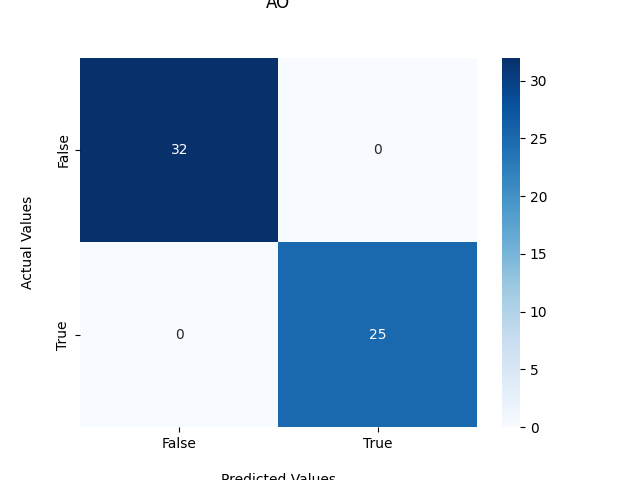
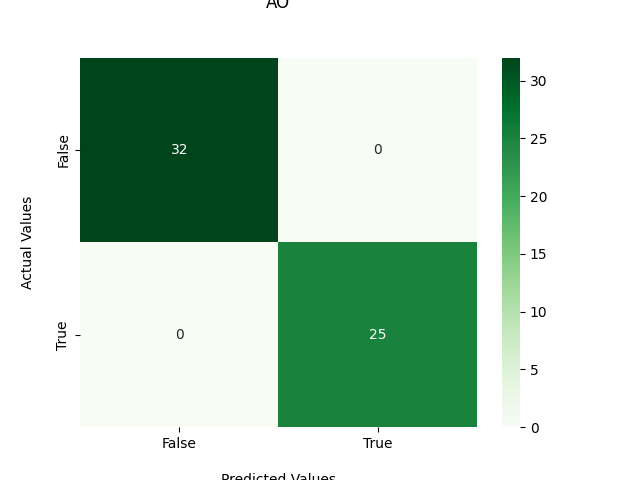
adding latest changes and bug fixes

Changed region(s): [[0.125, 0.0938, 0.75, 0.9062], [0.7812, 0.0938, 0.8125, 0.8125]]

diff --git a/scripts/Lasso-TARA.py b/scripts/Lasso-TARA.py
@@ -8,6 +8,7 @@ from sklearn.model_selection import train_test_split, GridSearchCV
 from sklearn.preprocessing import MinMaxScaler, StandardScaler
 from sklearn.pipeline import Pipeline
 import chardet
+from imblearn.over_sampling import SMOTE
 
 def plot_confusion_matrix(y_pred, y_actual, title, filename):
     plt.gca().set_aspect('equal')
@@ -19,7 +20,7 @@ def plot_confusion_matrix(y_pred, y_actual, title, filename):
 
     #print(cf_matrix)
 
-    ax = sns.heatmap(cf_matrix, annot=True, cmap='Blues')
+    ax = sns.heatmap(cf_matrix, annot=True, cmap='Reds')
 
     ax.set_title(title+'\n\n');
     ax.set_xlabel('\nPredicted Values')
@@ -67,6 +68,8 @@ remove = [col for col in features.columns if features[col].isna().sum() != 0 or 
 features = features.loc[:, ~features.columns.isin(remove)] #remove columns with too many missing values
 #print(features)
 
+sm = SMOTE(k_neighbors=1, random_state=55)
+
 params = {
     'C': [0.1, 1, 10, 100, 1000],
     'gamma': [1, 0.1, 0.01, 0.001, 0.0001],
@@ -81,10 +84,13 @@ clf = GridSearchCV(
     verbose=3
 )
 
-for label in labels.columns:
+labels_list = ['RS','SO','NAT','IO','SP','AO','SAT','MS', 'NP']
+
+for label in labels_list:
 
     print('Scaling data...')
-    X_train, X_test, y_train, y_test = train_test_split(features, labels, test_size=0.3, random_state=5)
+    X_res, y_res = sm.fit_resample(features, labels[label])
+    X_train, X_test, y_train, y_test = train_test_split(X_res, y_res, test_size=0.3, random_state=5)
 
     print('Doing feature selection with Lasso...')
     pipeline = Pipeline([('scaler',StandardScaler()), ('model',Lasso())])
@@ -95,10 +101,11 @@ for label in labels.columns:
     search.fit(X_train, y_train)
     coefficients = search.best_estimator_.named_steps['model'].coef_
     importance = np.abs(coefficients)
-    remove = np.array(features.columns)[importance > 0]
+    remove = np.array(features.columns)[importance == 0] #remove anything not important
 
-    X_train = X_train.loc[:, ~X_train.columns.isin(remove)]
-    X_test = X_test.loc[:, ~X_test.columns.isin(remove)]
+    if len(remove) < len(features.columns): #if everything is not important use the entire dataset
+        X_train = X_train.loc[:, ~X_train.columns.isin(remove)]
+        X_test = X_test.loc[:, ~X_test.columns.isin(remove)]
 
     print('Predicting with SVM...')
 

diff --git a/scripts/plot.py b/scripts/plot.py
@@ -1,0 +1,35 @@
+import matplotlib.pyplot as plt
+import seaborn as sns
+
+
+def plot_confusion_matrix(cf_matrix, title, filename, color):
+    plt.gca().set_aspect('equal')
+    #cf_matrix = metrics.confusion_matrix(y_actual, y_pred)
+    if len(cf_matrix) != 2: #if it predicts perfectly then confusion matrix returns incorrect form
+        val = cf_matrix[0][0]
+        tmp = [val, 0]
+        cf_matrix = np.array([tmp, [0, 0]])
+
+    #print(cf_matrix)
+
+    ax = sns.heatmap(cf_matrix, annot=True, cmap=color)
+
+    ax.set_title(title+'\n\n');
+    ax.set_xlabel('\nPredicted Values')
+    ax.set_ylabel('Actual Values\n');
+
+    ## Ticket labels - List must be in alphabetical order
+    ax.xaxis.set_ticklabels(['False','True'])
+    ax.yaxis.set_ticklabels(['False','True'])
+
+    ## Display the visualization of the Confusion Matrix.
+    plt.tight_layout()
+    plt.savefig(filename)
+    plt.close()
+
+plot_confusion_matrix([[9,1],[10,0]], 'Drought Tolerance', 'images/confusion-matrix/Rhizo/PCA/drought_tolerance_CM.png', 'Greens')
+plot_confusion_matrix([[5,4],[5,5]], 'Drought Tolerance', 'images/confusion-matrix/Rhizo/Lasso/drought_tolerance_CM.png', 'Reds')
+plot_confusion_matrix([[5,4],[3,7]], 'Drought Tolerance', 'images/confusion-matrix/Rhizo/AE/drought_tolerance_CM-AE100.png', 'Blues')
+
+plot_confusion_matrix([[13000,0],[0,3000]], 'cultured', 'images/confusion-matrix/GEM/Lasso/cultured_CM.png', 'Reds')
+plot_confusion_matrix([[13000,0],[3000,0]], 'cultured', 'images/confusion-matrix/GEM/Lasso/cultured_CM-nometa.png', 'Reds')

diff --git a/scripts/Lasso-GEM.py b/scripts/Lasso-GEM.py
@@ -19,7 +19,7 @@ def plot_confusion_matrix(y_pred, y_actual, title, filename):
 
     #print(cf_matrix)
 
-    ax = sns.heatmap(cf_matrix, annot=True, cmap='Blues')
+    ax = sns.heatmap(cf_matrix, annot=True, cmap='Reds')
 
     ax.set_title(title+'\n\n');
     ax.set_xlabel('\nPredicted Values')
@@ -74,7 +74,7 @@ ids = data['genome_id']
 label_strings = data['cultured.status']
 
 print('Splitting data...')
-features = data.loc[:, ~data.columns.isin(['genome_id', 'cultured.status'])] #get rid of labels
+features = data.loc[:, ~data.columns.isin(['genome_id', 'cultured.status', 'culture.level', 'taxonomic.dist', 'domain', 'phylum', 'class', 'order', 'family', 'genus', 'species', 'completeness'])] #get rid of labels
 features = pd.get_dummies(features)
 #print(features)
 
@@ -103,7 +103,7 @@ search = GridSearchCV(pipeline,
 search.fit(X_train, y_train)
 coefficients = search.best_estimator_.named_steps['model'].coef_
 importance = np.abs(coefficients)
-remove = np.array(features.columns)[importance > 0]
+remove = np.array(features.columns)[importance == 0]
 
 X_train = X_train.loc[:, ~X_train.columns.isin(remove)]
 X_test = X_test.loc[:, ~X_test.columns.isin(remove)]
@@ -138,6 +138,6 @@ print("Precision:",metrics.precision_score(y_test, y_pred))
 print("Recall:",metrics.recall_score(y_test, y_pred))
 
 print('Plotting:', label)
-plot_confusion_matrix(y_pred=y_pred, y_actual=y_test, title=label, filename=label+'_CM.png')
+plot_confusion_matrix(y_pred=y_pred, y_actual=y_test, title=label, filename=label+'_CM-nometa.png')
 
 print()

diff --git a/scripts/Lasso-Rhizo.py b/scripts/Lasso-Rhizo.py
@@ -19,7 +19,7 @@ def plot_confusion_matrix(y_pred, y_actual, title, filename):
 
     #print(cf_matrix)
 
-    ax = sns.heatmap(cf_matrix, annot=True, cmap='Blues')
+    ax = sns.heatmap(cf_matrix, annot=True, cmap='Reds')
 
     ax.set_title(title+'\n\n');
     ax.set_xlabel('\nPredicted Values')
@@ -84,10 +84,12 @@ search = GridSearchCV(pipeline,
 search.fit(X_train, y_train)
 coefficients = search.best_estimator_.named_steps['model'].coef_
 importance = np.abs(coefficients)
-remove = np.array(features.columns)[importance > 0]
+#print(list(importance))
+remove = np.array(features.columns)[importance == 0]
 
-X_train = X_train.loc[:, ~X_train.columns.isin(remove)]
-X_test = X_test.loc[:, ~X_test.columns.isin(remove)]
+if len(remove) < len(features.columns): #if everything is not important then no feature selection can occur
+    X_train = X_train.loc[:, ~X_train.columns.isin(remove)]
+    X_test = X_test.loc[:, ~X_test.columns.isin(remove)]
 
 print('Predicting with SVM...')
 

diff --git a/scripts/AE-GEM.py b/scripts/AE-GEM.py
@@ -91,7 +91,7 @@ ids = data['genome_id']
 label_strings = data['cultured.status']
 
 print('Splitting data...')
-features = data.loc[:, ~data.columns.isin(['genome_id', 'cultured.status', 'culture.level', 'taxonomic.dist', 'domain', 'phylum', 'class', 'order', 'family', 'genus', 'species', 'completeness'])] #remove metadata
+features = data.loc[:, ~data.columns.isin(['genome_id', 'cultured.status'])] #remove metadata
 features = pd.get_dummies(features)
 #print(features.columns)
 

diff --git a/scripts/PCA-GEM.py b/scripts/PCA-GEM.py
@@ -17,7 +17,7 @@ def plot_confusion_matrix(y_pred, y_actual, title, filename):
 
     #print(cf_matrix)
 
-    ax = sns.heatmap(cf_matrix, annot=True, cmap='Blues')
+    ax = sns.heatmap(cf_matrix, annot=True, cmap='Greens')
 
     ax.set_title(title+'\n\n');
     ax.set_xlabel('\nPredicted Values')

diff --git a/scripts/PCA-Rhizo.py b/scripts/PCA-Rhizo.py
@@ -23,7 +23,7 @@ def plot_confusion_matrix(y_pred, y_actual, title, filename):
 
     #print(cf_matrix)
 
-    ax = sns.heatmap(cf_matrix, annot=True, cmap='Blues')
+    ax = sns.heatmap(cf_matrix, annot=True, cmap='Greens')
 
     ax.set_title(title+'\n\n');
     ax.set_xlabel('\nPredicted Values')

diff --git a/scripts/PCA-TARA.py b/scripts/PCA-TARA.py
@@ -18,7 +18,7 @@ def plot_confusion_matrix(y_pred, y_actual, title, filename):
 
     #print(cf_matrix)
 
-    ax = sns.heatmap(cf_matrix, annot=True, cmap='Blues')
+    ax = sns.heatmap(cf_matrix, annot=True, cmap='Greens')
 
     ax.set_title(title+'\n\n');
     ax.set_xlabel('\nPredicted Values')
